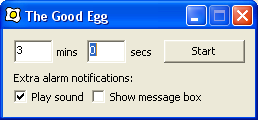
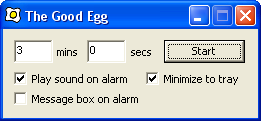
support minimize to tray

diff --git a/gegg.cpp b/gegg.cpp
@@ -22,18 +22,20 @@ THE SOFTWARE.
 
 #define WIN32_LEAN_AND_MEAN
 
-#define _WIN32_WINNT    0x0500  // Windows 2000
-#define WINVER          0x0500  // Windows 2000
+#define _WIN32_WINNT    0x0600  // enable Vista features, but we should work with everything
+#define WINVER          0x0600  // enable Vista features, but we should work with everything
 #define _WIN32_IE       0x0500  // Internet Explorer 5.0
 
 #include <windows.h>
 #include <mmsystem.h>
+#include <shellapi.h>
 #include <tchar.h>
 #include <stdio.h> 
 
 #include "resource.h"
 
 #pragma comment(lib, "winmm.lib")
+#pragma comment(lib, "shell32.lib")
 
 #define TIMERID_COUNTDOWN       1
 #define TIMERID_FLASH           2
@@ -42,6 +44,8 @@ THE SOFTWARE.
 #define TIMERDELAY_FLASH        500
 #define TIMERDELAY_SOUND        10*1000
 
+#define WM_GEGG_TRAYMSG         (WM_USER + 1)
+
 #define ARRAYLEN(x)             (sizeof(x)/sizeof((x)[0]))
 
 #define REGKEY_GEGG             _T("SOFTWARE\\Jellycan\\Gegg")
@@ -49,6 +53,7 @@ THE SOFTWARE.
 #define REGVAL_ALARM_MSGBOX     _T("AlarmMsgBox")
 #define REGVAL_ALARM_FLASH      _T("AlarmFlash")
 #define REGVAL_ALARM_SOUND      _T("AlarmSound")
+#define REGVAL_USE_TRAY         _T("MinimizeToTray")
 
 #define APPTITLE                _T("The Good Egg")
 #define APPTITLE_FORMAT         _T("%u:%02u - The Good Egg")
@@ -70,14 +75,23 @@ BOOL        g_bShowRed = FALSE;
 HBRUSH      g_brush = NULL;
 BOOL        g_bIsAlarmSounding = TRUE;
 int         g_nSoundCount = 0;
+BOOL        g_bMinimizedToTray = FALSE;
+RECT        g_rcLastPos;
+BOOL        g_bEnableAnimation = TRUE;
+BOOL        g_bClientAreaAnimation = TRUE;
+UINT        WM_TASKBARCREATED = 0;
+
+// controls
+const static int g_rgControl[] = {
+    IDC_MINS, IDC_SECS, IDC_MSGBOX, IDC_SOUND, IDC_USETRAY
+};
 
 // forward dec
 BOOL OnTimer(WPARAM wParam, LPARAM lParam);
 void OnStopTiming();
+void UpdateTrayIconTooltip(LPCTSTR pszTitle);
 
-const static int g_rgControl[] = {
-    IDC_MINS, IDC_SECS, IDC_MSGBOX, IDC_SOUND
-};
+
 
 bool IsChecked(int id) {
     return SendDlgItemMessage(g_hwnd, id, BM_GETCHECK, 0, 0) == BST_CHECKED;
@@ -103,13 +117,17 @@ void SetDurationText(DWORD dwDuration, bool bTitleBar)
     SetDlgItemInt(g_hwnd, IDC_MINS, dwMins, FALSE);
     SetDlgItemInt(g_hwnd, IDC_SECS, dwSecs, FALSE);
 
+    TCHAR szBuf[50];
     if (bTitleBar) {
-        TCHAR szBuf[50];
         _sntprintf_s(szBuf, ARRAYLEN(szBuf), APPTITLE_FORMAT, dwMins, dwSecs);
-        SetWindowText(g_hwnd, szBuf);
     }
     else {
-        SetWindowText(g_hwnd, APPTITLE);
+        _tcscpy_s(szBuf, APPTITLE);
+    }
+    SetWindowText(g_hwnd, szBuf);
+    
+    if (g_bMinimizedToTray) {
+        UpdateTrayIconTooltip(szBuf);
     }
 }
 
@@ -133,6 +151,9 @@ void SavePreferences() {
     dwValue = IsChecked(IDC_SOUND) ? 1 : 0;
     RegSetValueEx(hkey, REGVAL_ALARM_SOUND, 0, REG_DWORD, (BYTE*) &dwValue, sizeof(dwValue));
 
+    dwValue = IsChecked(IDC_USETRAY) ? 1 : 0;
+    RegSetValueEx(hkey, REGVAL_USE_TRAY, 0, REG_DWORD, (BYTE*) &dwValue, sizeof(dwValue));
+    
     RegCloseKey(hkey);
 }
 
@@ -162,6 +183,12 @@ void LoadPreferences() {
     rc = RegQueryValueEx(hkey, REGVAL_ALARM_SOUND, 0, &dwType, (LPBYTE) &dwValue, &dwLen);
     if (rc == ERROR_SUCCESS && dwType == REG_DWORD && dwLen == sizeof(dwValue)) {
         SendDlgItemMessage(g_hwnd, IDC_SOUND, BM_SETCHECK, dwValue ? BST_CHECKED : BST_UNCHECKED, 0);
+    }
+
+    dwLen = sizeof(dwValue);
+    rc = RegQueryValueEx(hkey, REGVAL_USE_TRAY, 0, &dwType, (LPBYTE) &dwValue, &dwLen);
+    if (rc == ERROR_SUCCESS && dwType == REG_DWORD && dwLen == sizeof(dwValue)) {
+        SendDlgItemMessage(g_hwnd, IDC_USETRAY, BM_SETCHECK, dwValue ? BST_CHECKED : BST_UNCHECKED, 0);
     }
 
     RegCloseKey(hkey);
@@ -273,8 +300,108 @@ void StopSoundingAlarm()
     OnStopTiming();
 }
 
+void AddTrayIcon()
+{
+    NOTIFYICONDATA nid;
+    nid.cbSize = sizeof(nid);
+    nid.hWnd = g_hwnd;
+    nid.uID = IDI_GEGG;
+    nid.uFlags = NIF_MESSAGE | NIF_ICON | NIF_TIP;
+    nid.uCallbackMessage = WM_GEGG_TRAYMSG;
+    nid.hIcon = LoadIcon(g_hInstance, MAKEINTRESOURCE(IDI_GEGG));
+    _tcscpy_s(nid.szTip, APPTITLE);
+
+    Shell_NotifyIcon(NIM_ADD, &nid);
+}
+
+void MinimizeToTray()
+{
+    AddTrayIcon();
+
+    if (g_bEnableAnimation) {
+        RECT rcTray;
+        HWND hTray = FindWindow("Shell_TrayWnd", NULL);
+        if (hTray) hTray = FindWindowEx(hTray, NULL, "TrayNotifyWnd", NULL);
+        if (hTray) {
+            GetWindowRect(hTray, &rcTray);
+        }
+        else {
+            GetWindowRect(GetDesktopWindow(), &rcTray);
+            rcTray.top  = rcTray.bottom - 20;
+            rcTray.left = rcTray.right  - 20;
+        }
+
+        GetWindowRect(g_hwnd, &g_rcLastPos);
+
+        DrawAnimatedRects(g_hwnd, IDANI_CAPTION, &g_rcLastPos, &rcTray);
+    }
+
+    ShowWindow(g_hwnd, SW_HIDE);
+
+    g_bMinimizedToTray = TRUE;
+}
+
+void RestoreFromTray()
+{
+    if (!g_bMinimizedToTray) return;
+    g_bMinimizedToTray = FALSE;
+
+    ANIMATIONINFO ai =  { 0 };
+    ai.cbSize = sizeof(ai);
+    SystemParametersInfo(SPI_GETANIMATION, sizeof(ai), &ai, 0);
+    if (ai.iMinAnimate) {
+        RECT rcTray;
+        HWND hTray = FindWindow("Shell_TrayWnd", NULL);
+        if (hTray) hTray = FindWindowEx(hTray, NULL, "TrayNotifyWnd", NULL);
+        if (hTray) {
+            GetWindowRect(hTray, &rcTray);
+        }
+        else {
+            GetWindowRect(GetDesktopWindow(), &rcTray);
+            rcTray.top  = rcTray.bottom - 20;
+            rcTray.left = rcTray.right  - 20;
+        }
+
+        DrawAnimatedRects(g_hwnd, IDANI_CAPTION, &rcTray, &g_rcLastPos);
+    }
+
+    ShowWindow(g_hwnd, SW_SHOW);
+
+    NOTIFYICONDATA nid = { 0 };
+    nid.cbSize = sizeof(nid);
+    nid.hWnd = g_hwnd;
+    nid.uID = IDI_GEGG;
+
+    Shell_NotifyIcon(NIM_DELETE, &nid);
+}
+
+void UpdateTrayIconTooltip(LPCTSTR pszTitle)
+{
+    NOTIFYICONDATA nid = { 0 };
+    nid.cbSize = sizeof(nid);
+    nid.hWnd = g_hwnd;
+    nid.uID = IDI_GEGG;
+    nid.uFlags = NIF_TIP;
+    _tcscpy_s(nid.szTip, pszTitle);
+
+    Shell_NotifyIcon(NIM_MODIFY, &nid);
+}
+
+void OnStopTiming() {
+    RestoreFromTray();
+    KillTimer(g_hwnd, TIMERID_COUNTDOWN);
+    SetDlgItemText(g_hwnd, IDC_START, MSG_STARTBUTTON);
+    EnableControls(TRUE);
+    SetDurationText(g_dwTimerDuration, false);
+    g_dwTimerStart = 0;
+    g_dwTimerDuration = 0;
+    PostMessage(g_hwnd, WM_NEXTDLGCTL, (WPARAM) GetDlgItem(g_hwnd, IDC_MINS), TRUE);
+}
+
 void StartSoundingAlarm()
 {
+    RestoreFromTray();
+
     KillTimer(g_hwnd, TIMERID_COUNTDOWN);
     EnableControls(TRUE);
     SetDurationText(0, true);
@@ -294,16 +421,6 @@ void StartSoundingAlarm()
         MessageBox(g_hwnd, MSG_ALARM, APPTITLE, MB_ICONEXCLAMATION | MB_OK);
         StopSoundingAlarm();
     }
-}
-
-void OnStopTiming() {
-    KillTimer(g_hwnd, TIMERID_COUNTDOWN);
-    SetDlgItemText(g_hwnd, IDC_START, MSG_STARTBUTTON);
-    EnableControls(TRUE);
-    SetDurationText(g_dwTimerDuration, false);
-    g_dwTimerStart = 0;
-    g_dwTimerDuration = 0;
-    PostMessage(g_hwnd, WM_NEXTDLGCTL, (WPARAM) GetDlgItem(g_hwnd, IDC_MINS), TRUE);
 }
 
 BOOL OnTimer(WPARAM wParam, LPARAM lParam) 
@@ -338,7 +455,10 @@ BOOL OnTimer(WPARAM wParam, LPARAM lParam)
         fwi.uCount = 1;
         FlashWindowEx(&fwi);
 
-        SetTimer(g_hwnd, TIMERID_FLASH, TIMERDELAY_FLASH, NULL);
+        if (g_bClientAreaAnimation) {
+            SetTimer(g_hwnd, TIMERID_FLASH, TIMERDELAY_FLASH, NULL);
+        }
+
         return TRUE;
     }
 
@@ -452,6 +572,17 @@ BOOL OnEraseBackground(HDC hDC, bool bIsControl)
     return FALSE;
 }
 
+BOOL OnTrayMessage(WPARAM wParam, LPARAM lParam) 
+{
+    UINT uIconId   = (UINT) wParam; // icon ID sending the message
+    UINT uMouseMsg = (UINT) lParam; // mouse event
+    if (uMouseMsg == WM_LBUTTONDBLCLK && uIconId == IDI_GEGG) {
+        RestoreFromTray();
+        return TRUE;
+    }
+    return FALSE;
+}
+
 INT_PTR CALLBACK GeggDialogProc(HWND hwnd, UINT message, WPARAM wParam, LPARAM lParam) 
 { 
     switch (message) { 
@@ -478,6 +609,17 @@ INT_PTR CALLBACK GeggDialogProc(HWND hwnd, UINT message, WPARAM wParam, LPARAM l
         }
         return FALSE;
 
+    case WM_SYSCOMMAND:
+        if (wParam == SC_MINIMIZE && IsChecked(IDC_USETRAY)) {
+            MinimizeToTray();
+            SetWindowLong(g_hwnd, DWL_MSGRESULT, 0);
+            return TRUE;
+        }
+        return FALSE;
+
+    case WM_GEGG_TRAYMSG:
+        return OnTrayMessage(wParam, lParam);
+
     case WM_CLOSE:
         SavePreferences();
         DestroyWindow(hwnd);
@@ -488,6 +630,10 @@ INT_PTR CALLBACK GeggDialogProc(HWND hwnd, UINT message, WPARAM wParam, LPARAM l
         return TRUE;
 
     default: 
+        if (message == WM_TASKBARCREATED) {
+            AddTrayIcon();
+            return TRUE;
+        }
         return FALSE; 
     } 
 }
@@ -495,6 +641,17 @@ INT_PTR CALLBACK GeggDialogProc(HWND hwnd, UINT message, WPARAM wParam, LPARAM l
 int WINAPI WinMain(HINSTANCE hInstance, HINSTANCE hPrevInstance, PSTR pCmdLine, int iCmdShow)
 {
     g_hInstance = hInstance;
+
+    WM_TASKBARCREATED = RegisterWindowMessage(_T("TaskbarCreated"));
+
+    ANIMATIONINFO ai;
+    ai.cbSize = sizeof(ai);
+    ai.iMinAnimate = 1; // default on
+    SystemParametersInfo(SPI_GETANIMATION, sizeof(ai), &ai, 0);
+    g_bEnableAnimation = (ai.iMinAnimate != 0);
+
+    SystemParametersInfo(SPI_GETCLIENTAREAANIMATION, 
+        sizeof(g_bClientAreaAnimation), &g_bClientAreaAnimation, 0);
 
     g_brush = CreateSolidBrush(FLASH_COLOR);
 

diff --git a/resource.h b/resource.h
@@ -10,6 +10,7 @@
 #define IDC_START                       1003
 #define IDC_SOUND                       1005
 #define IDC_MSGBOX                      1006
+#define IDC_USETRAY                     1008
 
 // Next default values for new objects
 // 
@@ -17,7 +18,7 @@
 #ifndef APSTUDIO_READONLY_SYMBOLS
 #define _APS_NEXT_RESOURCE_VALUE        104
 #define _APS_NEXT_COMMAND_VALUE         40001
-#define _APS_NEXT_CONTROL_VALUE         1008
+#define _APS_NEXT_CONTROL_VALUE         1009
 #define _APS_NEXT_SYMED_VALUE           101
 #endif
 #endif
